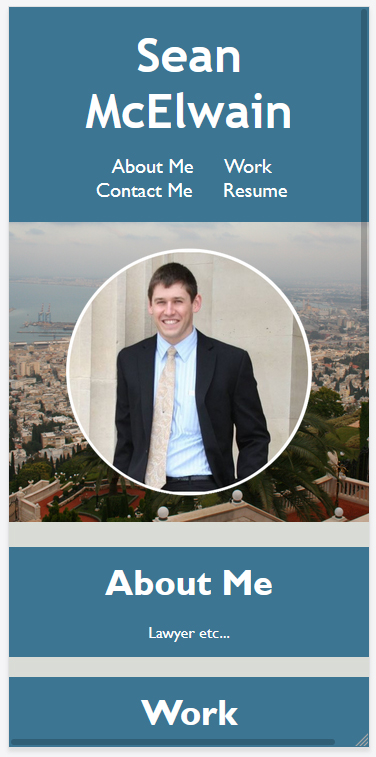
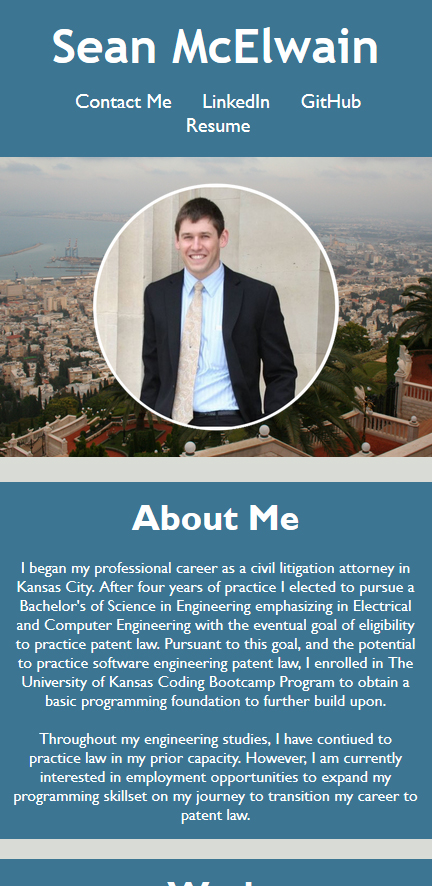
screenshot and Readme update

diff --git a/README.md b/README.md
@@ -1,13 +1,13 @@
 # Read ME
 # Description
 
-Professional Portfolio Page for Sean McElwain.  The purpose of Homework Assignment #2 is to create a basic portfolio page containing the developer's name, a recent photo, work product, and contact information. The portfolio should also incorporate a responsive design optimized to both PC and mobile device screen 
+Professional Portfolio Page for Sean McElwain.  The purpose of Homework Assignment #7 is to update the basic portfolio page created in Assignment #2. 
 
 # URL: https://sean-mcelwain.github.io/portfolio_SM/
 
 # Screenshot:
 
-![Screenshot](https://sean-mcelwain.github.io/portfolio_SM/assets/images/screenshot.jpg)
+![Screenshot](https://raw.githubusercontent.com/sean-mcelwain/portfolio_SM/master/assets/images/screenshot.jpg)
 
 # Mobile Screenshot:
 
